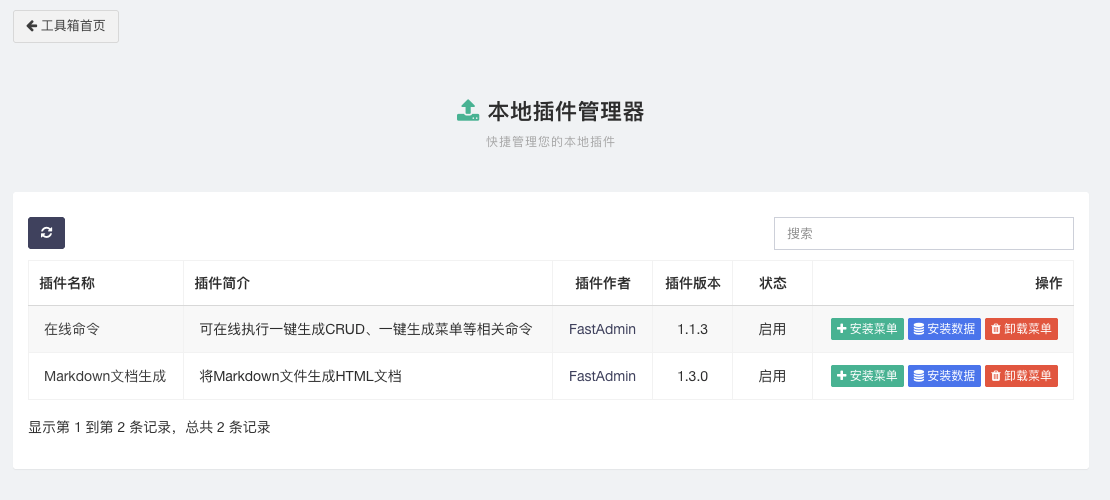
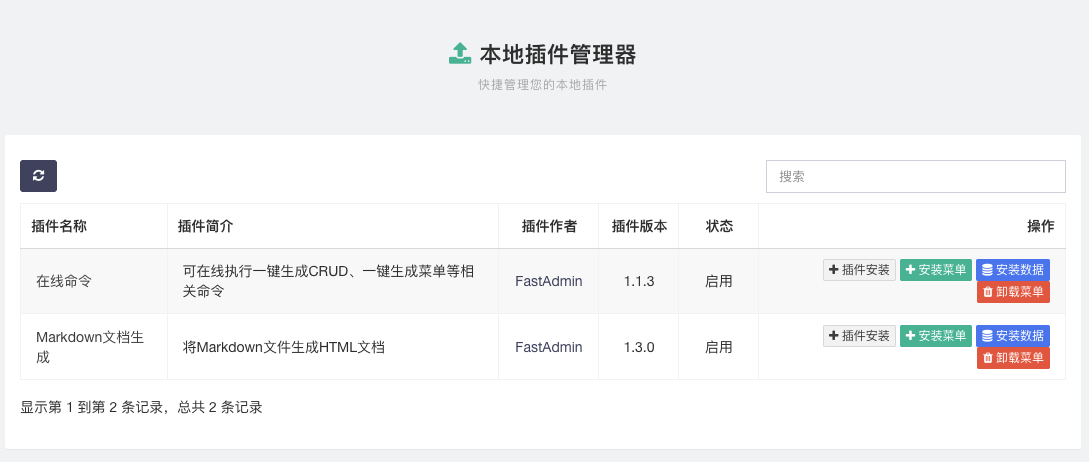
优化插件开发监听器安装工具并完善说明文档

diff --git a/Toolbox.php b/Toolbox.php
@@ -19,6 +19,7 @@ use think\Db;
  */
 class Toolbox extends Backend
 {
+    protected $version = '1.7.0';
 
     protected $noNeedLogin = [];
     protected $noNeedRight = ['*'];
@@ -86,7 +87,7 @@ class Toolbox extends Backend
                     {$content}
                 </div>
                 <div class="toolbox-footer" style="text-align:center;color:#999;margin-top:30px;padding:15px 0;border-top:1px solid #eee;">
-                    FastAdmin Toolbox · FA开发工具箱
+                    FastAdmin Toolbox · <a href="https://github.com/frank6com/fastadmin-toolbox">FA开发工具箱</a>
                 </div>
             </div>
         HTML;
@@ -1861,23 +1862,10 @@ class Toolbox extends Backend
     {
         $rootPath = ROOT_PATH;
 
-        // 下载源 URL 配置
-        $fileUrls = [
-            'watch'  => 'https://gitee.com/frank6com/FastAdmin-Plugin-Dev-Watch/raw/master/plugin-dev-watch.js',
-            'sync'   => 'https://gitee.com/frank6com/FastAdmin-Plugin-Dev-Watch/raw/master/plugin-dev-sync.js',
-            'config' => 'https://gitee.com/frank6com/FastAdmin-Plugin-Dev-Watch/raw/master/plugin-dev.config.js',
-        ];
-
-        $filePaths = [
-            'watch'  => $rootPath . 'plugin-dev-watch.js',
-            'sync'   => $rootPath . 'plugin-dev-sync.js',
-            'config' => $rootPath . 'plugin-dev.config.js',
-        ];
-
-        $fileNames = [
-            'watch'  => 'plugin-dev-watch.js',
-            'sync'   => 'plugin-dev-sync.js',
-            'config' => 'plugin-dev.config.js',
+        $files = [
+            'watch'  => ['url' => 'https://gitee.com/frank6com/FastAdmin-Plugin-Dev-Watch/raw/master/plugin-dev-watch.js',  'path' => $rootPath . 'plugin-dev-watch.js',  'name' => 'plugin-dev-watch.js',  'desc' => '核心监听脚本'],
+            'sync'   => ['url' => 'https://gitee.com/frank6com/FastAdmin-Plugin-Dev-Watch/raw/master/plugin-dev-sync.js',   'path' => $rootPath . 'plugin-dev-sync.js',   'name' => 'plugin-dev-sync.js',   'desc' => '文件同步脚本'],
+            'config' => ['url' => 'https://gitee.com/frank6com/FastAdmin-Plugin-Dev-Watch/raw/master/plugin-dev.config.js', 'path' => $rootPath . 'plugin-dev.config.js', 'name' => 'plugin-dev.config.js', 'desc' => '监听配置文件'],
         ];
 
         // ==================== POST: 逐项安装 ====================
@@ -1890,8 +1878,8 @@ class Toolbox extends Backend
             }
 
             // ---- 安装 JS 文件 ----
-            if (isset($fileUrls[$item])) {
-                $targetFile = $filePaths[$item];
+            if (isset($files[$item])) {
+                $targetFile = $files[$item]['path'];
 
                 // 检查目录可写
                 if (!is_writable($rootPath)) {
@@ -1899,19 +1887,19 @@ class Toolbox extends Backend
                 }
 
                 // 下载文件
-                $content = $this->downloadFile($fileUrls[$item]);
+                $content = $this->downloadFile($files[$item]['url']);
                 if ($content === false) {
-                    $this->error('下载失败，请检查网络连接: ' . $fileUrls[$item]);
+                    $this->error('下载失败，请检查网络连接: ' . $files[$item]['url']);
                 }
 
                 // 写入文件
                 $result = @file_put_contents($targetFile, $content);
                 if ($result === false) {
-                    $this->error('写入文件失败: ' . $fileNames[$item]);
+                    $this->error('写入文件失败: ' . $files[$item]['name']);
                 }
 
-                $this->success($fileNames[$item] . ' 安装成功', '', [
-                    'file' => $fileNames[$item],
+                $this->success($files[$item]['name'] . ' 安装成功', '', [
+                    'file' => $files[$item]['name'],
                 ]);
             }
 
@@ -1973,12 +1961,12 @@ class Toolbox extends Backend
         $checklist = [];
 
         // 检测三个 JS 文件
-        foreach (['watch', 'sync', 'config'] as $key) {
+        foreach ($files as $key => $f) {
             $checklist[] = [
                 'id'        => $key,
-                'name'      => $fileNames[$key],
-                'desc'      => $key === 'watch' ? '核心监听脚本' : ($key === 'sync' ? '文件同步脚本' : '监听配置文件'),
-                'installed' => is_file($filePaths[$key]),
+                'name'      => $f['name'],
+                'desc'      => $f['desc'],
+                'installed' => is_file($f['path']),
                 'conflict'  => null,
             ];
         }
@@ -2071,8 +2059,14 @@ class Toolbox extends Backend
                     <p style="font-size:15px;color:#3c763d;margin:0 0 10px;">
                         <i class="fa fa-check-circle" style="font-size:20px;"></i> 插件监视器已全部安装完成！
                     </p>
-                    <div class="watcher-cmd-box" style="display:inline-block;background:#333;color:#fff;padding:10px 20px;border-radius:4px;font-family:monospace;font-size:14px;margin-bottom:10px;">
-                        npm run dev [插件目录名称]
+                    <p style="color:#856404;background:#fff3cd;border:1px solid #ffc107;border-radius:4px;padding:8px 14px;font-size:12px;display:inline-block;margin-bottom:12px;">
+                        ⚠ 请先执行 <code style="background:#fce4b8;padding:1px 5px;border-radius:2px;">npm install --save-dev chokidar fs-extra</code> 安装依赖包
+                        &nbsp;<a href="javascript:;" id="btn-copy-npm-install" style="color:#856404;font-size:12px;" title="一键复制"><i class="fa fa-clipboard"></i></a>
+                    </p>
+                    <br>
+                    <div style="margin-bottom:10px;display:inline-flex;align-items:center;">
+                        <code style="background:#333;color:#fff;padding:6px 12px;border-radius:4px 0 0 4px;font-size:14px;">npm run dev</code>
+                        <input type="text" id="watcher-plugin-name" value="插件目录名称" style="width:160px;padding:6px 8px;border:1px solid #ccc;border-left:none;border-radius:0 4px 4px 0;font-family:monospace;font-size:14px;" placeholder="插件目录名称">
                     </div>
                     <br>
                     <button class="btn btn-sm btn-default" id="btn-watcher-copy-cmd"><i class="fa fa-clipboard"></i> 复制命令</button>
@@ -2124,6 +2118,38 @@ class Toolbox extends Backend
             var WatcherPage = {
                 installUrl: Config.toolbox_watcher_url || Config.watcher_install_url,
 
+                copyToClipboard: function(text) {
+                    var textarea = document.createElement("textarea");
+                    textarea.value = text;
+                    textarea.style.position = "fixed";
+                    textarea.style.opacity = "0";
+                    document.body.appendChild(textarea);
+                    textarea.select();
+                    try {
+                        var ok = document.execCommand("copy");
+                        if (ok) {
+                            Layer.msg("已复制到剪贴板", {icon: 1});
+                        } else {
+                            Layer.msg("复制失败，请手动复制", {icon: 0});
+                        }
+                    } catch (e) {
+                        Layer.msg("复制失败，请手动复制", {icon: 0});
+                    }
+                    document.body.removeChild(textarea);
+                },
+
+                escapeHtml: function(str) {
+                    return String(str).replace(/[<>&"]/g, function(c) {
+                        return {"<":"&lt;",">":"&gt;","&":"&amp;","\"":"&quot;"}[c];
+                    });
+                },
+
+                markRowInstalled: function($row, $btn) {
+                    $row.find(".watcher-status").html("<i class=\"fa fa-check-circle\" style=\"color:#18bc9c;\"></i>");
+                    $row.find(".watcher-status-label span").removeClass("text-danger text-warning").addClass("text-success").text("已安装");
+                    $btn.replaceWith("<button class=\"btn btn-xs btn-default\" disabled><i class=\"fa fa-check\"></i> 已安装</button>");
+                },
+
                 init: function() {
                     var self = this;
 
@@ -2166,13 +2192,12 @@ class Toolbox extends Backend
                     });
 
                     $("#btn-watcher-copy-cmd").on("click", function() {
-                        if (navigator.clipboard) {
-                            navigator.clipboard.writeText("npm run dev [插件目录名称]").then(function() {
-                                Layer.msg("已复制到剪贴板", {icon: 1});
-                            });
-                        } else {
-                            Layer.msg("请手动复制: npm run dev [插件目录名称]", {icon: 0});
-                        }
+                        var name = $("#watcher-plugin-name").val().trim() || "插件目录名称";
+                        self.copyToClipboard("npm run dev " + name);
+                    });
+
+                    $("#btn-copy-npm-install").on("click", function() {
+                        self.copyToClipboard("npm install --save-dev chokidar fs-extra");
                     });
 
                     if (Config.watcher_has_conflict) {
@@ -2204,9 +2229,7 @@ class Toolbox extends Backend
                                     return;
                                 }
                                 Layer.msg(res.msg || "安装成功", {icon: 1});
-                                $row.find(".watcher-status").html("<i class=\"fa fa-check-circle\" style=\"color:#18bc9c;\"></i>");
-                                $row.find(".watcher-status-label span").removeClass("text-danger").addClass("text-success").text("已安装");
-                                $btn.replaceWith("<button class=\"btn btn-xs btn-default\" disabled><i class=\"fa fa-check\"></i> 已安装</button>");
+                                self.markRowInstalled($row, $btn);
                             } else {
                                 Layer.alert(res.msg || "安装失败", {icon: 2});
                             }
@@ -2247,9 +2270,7 @@ class Toolbox extends Backend
                         dataType: "json",
                         success: function(res) {
                             if (res.code === 1) {
-                                $row.find(".watcher-status").html("<i class=\"fa fa-check-circle\" style=\"color:#18bc9c;\"></i>");
-                                $row.find(".watcher-status-label span").removeClass("text-danger").addClass("text-success").text("已安装");
-                                $btn.replaceWith("<button class=\"btn btn-xs btn-default\" disabled><i class=\"fa fa-check\"></i> 已安装</button>");
+                                self.markRowInstalled($row, $btn);
                             }
                             self.installBatch(items, index + 1, hasConflict);
                         },
@@ -2267,8 +2288,8 @@ class Toolbox extends Backend
                     html += "<p style=\"color:#f0ad4e;font-size:14px;\"><i class=\"fa fa-exclamation-triangle\"></i> <strong>dev 命令冲突</strong></p>";
                     html += "<p style=\"color:#666;\">package.json 中已存在 <code>scripts.dev</code>，但值与期望不匹配：</p>";
                     html += "<table class=\"table table-bordered\" style=\"font-size:12px;\">";
-                    html += "<tr><td style=\"width:80px;font-weight:600;\">当前值</td><td><code style=\"color:#d9534f;\">" + current.replace(/</g, "&lt;").replace(/>/g, "&gt;") + "</code></td></tr>";
-                    html += "<tr><td style=\"font-weight:600;\">期望值</td><td><code style=\"color:#18bc9c;\">" + expected.replace(/</g, "&lt;").replace(/>/g, "&gt;") + "</code></td></tr>";
+                    html += "<tr><td style=\"width:80px;font-weight:600;\">当前值</td><td><code style=\"color:#d9534f;\">" + self.escapeHtml(current) + "</code></td></tr>";
+                    html += "<tr><td style=\"font-weight:600;\">期望值</td><td><code style=\"color:#18bc9c;\">" + self.escapeHtml(expected) + "</code></td></tr>";
                     html += "</table>";
                     html += "<p style=\"color:#888;font-size:12px;margin-top:10px;\">";
                     html += "请手动编辑项目根目录下的 <code>package.json</code> 文件，<br>";

diff --git a/README.md b/README.md
@@ -51,12 +51,14 @@ wget -O application/admin/controller/Toolbox.php https://raw.githubusercontent.c
 
 | | |
 |:---:|:---:|
-| ![工具箱首页](assets/images/preview_index.png) | ![系统环境信息](assets/images/preview_phpinfo.png) |
-| *工具箱首页* | *系统环境信息* |
-| ![检查更新](assets/images/preview_phpinfo_2.png) | ![密码生成器](assets/images/preview_password.png) |
-| *系统环境信息 - 检查更新* | *密码生成器* |
+| ![工具箱首页](assets/images/preview_index.png) | ![密码生成器](assets/images/preview_password.png) |
+| *工具箱首页* | *密码生成器* |
+| ![系统环境信息](assets/images/preview_phpinfo.png) | ![检查更新](assets/images/preview_phpinfo_2.png) | 
+| *系统环境信息* | *系统环境信息 - 检查更新* |
 | ![菜单代码管理器](assets/images/preview_rules.png) | ![本地插件管理器](assets/images/preview_addons.png) |
 | *菜单代码管理器* | *本地插件管理器* |
+| ![插件开发监听器](assets/images/preview_addon_watcher.png) |  |
+| *插件开发监听器* |   |
 
 ## 交流 QQ 群
 
